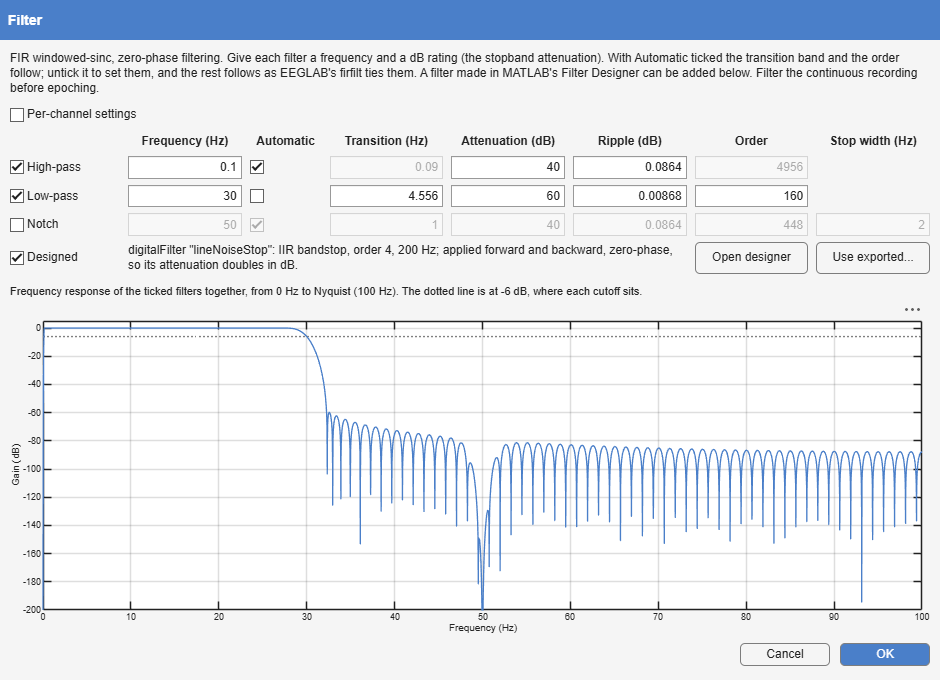
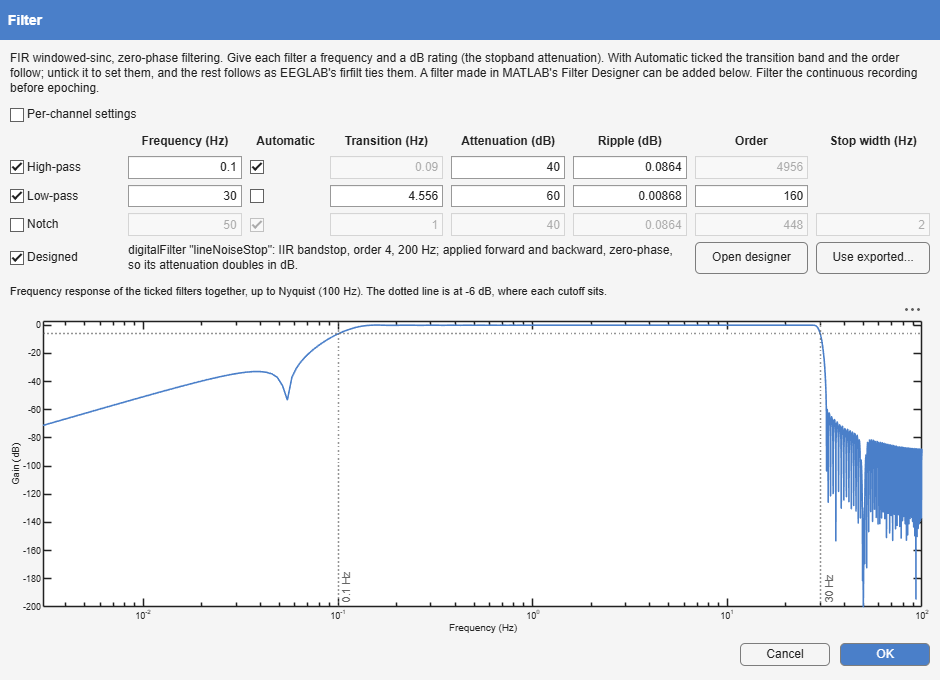
Add DialogFields.FrequencyResponse
The Butterworth plugin's response plot, shared: log frequency axis,
half-amplitude line, cutoffs marked. The Filter dialog draws with it.

diff --git a/src/Dialogs/+DialogFields/FrequencyResponse.m b/src/Dialogs/+DialogFields/FrequencyResponse.m
@@ -1,0 +1,103 @@
+classdef FrequencyResponse < DialogFields.Plot
+%FREQUENCYRESPONSE  A filter's amplitude response, redrawn from the dialog's
+%   current values: the gain in dB against a logarithmic frequency axis,
+%   the level at which a cutoff is defined dotted across, and each cutoff
+%   marked and labelled in Hz. It contributes nothing to the options.
+%
+%   DialogFields.FrequencyResponse(RESPONSEFCN, Name, Value)
+%     RESPONSEFCN  @(values) returning [F, GAIN, CUTOFFS], where VALUES is
+%                  a struct of every field's current value by name: the
+%                  frequencies in Hz, the linear gain at each (1 passes a
+%                  frequency unchanged, 0.5 halves it), and the cutoffs to
+%                  mark, in Hz ([] for none, 0 for a filter that is off).
+%                  An error it throws is shown in the plot instead, as Plot
+%                  shows any drawing's.
+%     'Floor'      the bottom of the gain axis, in dB (default -60)
+%     'Level'      the linear gain at which the cutoffs are defined, dotted
+%                  across (default 0.5, half amplitude, about -6 dB)
+%     'Color'      the curve's colour
+%     'Height'     in pixels (default 170)
+%
+%   DialogFields.FrequencyResponse.draw(AX, F, GAIN, Name, Value) draws the
+%   same picture on any axes, with 'Cutoffs' and the options above. The
+%   Filter dialog, which lays out its own window, draws its response with
+%   it, so a filter looks the same whichever dialog sets it.
+%
+%   Frequencies at or below 0 Hz are left out, since a logarithmic axis
+%   has no place for them, and a gain below the floor is drawn at the
+%   floor: a stopband's exact zeros are -Inf dB and would break the curve.
+%   The axis reaches above 0 dB far enough to show any passband ripple.
+%
+%       TransformOptionsDialog(..., ...
+%           {'High-pass (Hz)'; 'Highpass'}, 0.1, ...
+%           {'Amplitude response'; 'Response'}, DialogFields.FrequencyResponse( ...
+%               @(v) myResponse(v.Highpass, srate)));
+%
+%   See also DIALOGFIELDS.PLOT, FILTERDIALOG.
+
+    methods
+        function this = FrequencyResponse(responseFcn, varargin)
+            if ~isa(responseFcn, 'function_handle')
+                throw(MException('Alakazam:DialogFields', ...
+                    'A frequency response needs a function that computes it, @(values) ...'));
+            end
+            [style, rest] = takeStyle(varargin);
+            this@DialogFields.Plot(@(ax, values) drawFrom(ax, responseFcn, values, style), rest{:});
+        end
+    end
+
+    methods (Static)
+        function draw(ax, f, gain, varargin)
+        %DRAW  The response GAIN (linear) at F (Hz) on AX, as described above.
+            p = inputParser;
+            p.addParameter('Cutoffs', []);
+            p.addParameter('Floor', -60);
+            p.addParameter('Level', 0.5);
+            p.addParameter('Color', [0.29 0.50 0.79]);
+            p.parse(varargin{:});
+            o = p.Results;
+
+            f = reshape(double(f), 1, []);
+            gain = reshape(double(gain), 1, []);
+            shown = f > 0;
+            f = f(shown);
+            gainDb = max(20 * log10(abs(gain(shown))), o.Floor);
+            grey = [0.4 0.4 0.4];
+
+            cla(ax);
+            semilogx(ax, f, gainDb, 'Color', o.Color, 'LineWidth', 1.2, 'Tag', 'FrequencyResponse');
+            hold(ax, 'on');
+            yline(ax, 20 * log10(o.Level), ':', 'Color', grey, 'Tag', 'CutoffLevel');
+            for cutoff = reshape(double(o.Cutoffs), 1, [])
+                if cutoff > 0
+                    xline(ax, cutoff, ':', sprintf('%g Hz', cutoff), 'Color', grey, ...
+                        'LabelVerticalAlignment', 'bottom', 'FontSize', 8, 'Tag', 'Cutoff');
+                end
+            end
+            hold(ax, 'off');
+            xlim(ax, f([1 end]));
+            ylim(ax, [o.Floor, max(3, ceil(max(gainDb)) + 1)]);
+            xlabel(ax, 'Frequency (Hz)');
+            ylabel(ax, 'Gain (dB)');
+        end
+    end
+end
+
+function drawFrom(ax, responseFcn, values, style)
+%DRAWFROM  Ask RESPONSEFCN for the response at the dialog's VALUES and draw it.
+    [f, gain, cutoffs] = responseFcn(values);
+    DialogFields.FrequencyResponse.draw(ax, f, gain, 'Cutoffs', cutoffs, style{:});
+end
+
+function [style, rest] = takeStyle(args)
+%TAKESTYLE  Split the drawing's own options from those Plot takes.
+    style = {};
+    rest = {};
+    for k = 1:2:numel(args)
+        if any(strcmpi(args{k}, {'Floor', 'Level', 'Color'}))
+            style(end + (1:2)) = args(k:k + 1);
+        else
+            rest(end + (1:2)) = args(k:k + 1);
+        end
+    end
+end

diff --git a/tests/FilterTest.m b/tests/FilterTest.m
@@ -35,6 +35,8 @@ classdef FilterTest < matlab.unittest.TestCase
                 fullfile(root, 'src', 'Transformations', 'Filter')));
             testCase.applyFixture(matlab.unittest.fixtures.PathFixture( ...
                 fullfile(root, 'src', 'Transformations')));
+            testCase.applyFixture(matlab.unittest.fixtures.PathFixture( ...
+                fullfile(root, 'src', 'Dialogs')));
         end
 
         function ensureEeglab(testCase)
@@ -591,7 +593,8 @@ classdef FilterTest < matlab.unittest.TestCase
         function theDialogPlotsTheResponseAndFollowsTheSettings(testCase)
         %THEDIALOGPLOTSTHERESPONSEANDFOLLOWSTHESETTINGS  The dialog is modal,
         %   so a timer finds it, reads its one plot (the frequency response
-        %   from 0 Hz to Nyquist), unticks the high-pass, reads it again,
+        %   on a logarithmic axis up to Nyquist, as DialogFields.FrequencyResponse
+        %   draws it, each cutoff marked), unticks the high-pass, reads it again,
         %   unticks the low-pass too, and presses Cancel. The timer repeats
         %   until the dialog is up, so the test does not depend on how long
         %   that takes.
@@ -609,8 +612,9 @@ classdef FilterTest < matlab.unittest.TestCase
             bothFrequencies = filterFrequencyResponse(stored, srate);
             lowOnlyFrequencies = filterFrequencyResponse(filterOptions([], [30 40], []), srate);
 
-            seen = struct('impulseAxes', [], 'span', [], 'bothFrequencies', [], ...
-                'lowOnlyFrequencies', [], 'frequencyCaption', '', 'noneCaption', '', 'noneCurves', []);
+            seen = struct('impulseAxes', [], 'span', [], 'bothFrequencies', [], 'scale', '', ...
+                'cutoffs', [], 'lowOnlyFrequencies', [], 'frequencyCaption', '', 'noneCaption', '', ...
+                'noneCurves', []);
             timerObj = timer('ExecutionMode', 'fixedSpacing', 'Period', 1, ...
                 'TasksToExecute', 60, 'TimerFcn', @(src, ~) drive(src));
             cleanup = onCleanup(@() cleanupTimer(timerObj));
@@ -619,12 +623,14 @@ classdef FilterTest < matlab.unittest.TestCase
             clear cleanup;
 
             testCase.verifyEmpty(seen.impulseAxes, 'Only the frequency response is plotted.');
-            testCase.verifyEqual(seen.span, [0, srate / 2], 'AbsTol', 1e-12, ...
-                'The frequency response runs from 0 Hz to Nyquist.');
-            testCase.verifyEqual(seen.bothFrequencies, numel(bothFrequencies), ...
-                'The frequency response is that of both filters together.');
+            testCase.verifyEqual(seen.span, [bothFrequencies(2), srate / 2], 'AbsTol', 1e-12, ...
+                'The frequency response runs from the first frequency above 0 Hz to Nyquist.');
+            testCase.verifyEqual(seen.scale, 'log', 'The frequency axis is logarithmic.');
+            testCase.verifyEqual(sort(seen.cutoffs), [1 30], 'Each ticked cutoff is marked.');
+            testCase.verifyEqual(seen.bothFrequencies, numel(bothFrequencies) - 1, ...
+                'The frequency response is that of both filters together, without 0 Hz.');
             testCase.verifySubstring(seen.frequencyCaption, sprintf('Nyquist (%g Hz)', srate / 2));
-            testCase.verifyEqual(seen.lowOnlyFrequencies, numel(lowOnlyFrequencies), ...
+            testCase.verifyEqual(seen.lowOnlyFrequencies, numel(lowOnlyFrequencies) - 1, ...
                 'Unticking the high-pass redraws the frequency response.');
             testCase.verifySubstring(seen.noneCaption, 'No filter is ticked');
             testCase.verifyEmpty(seen.noneCurves, 'With no filter ticked there is nothing to plot.');
@@ -645,6 +651,8 @@ classdef FilterTest < matlab.unittest.TestCase
                 seen.impulseAxes = findall(f(1), 'Tag', 'ResponseAxes');
                 seen.span = curve.XData([1 end]);
                 seen.bothFrequencies = numel(curve.XData);
+                seen.scale = frequencyAxes.XScale;
+                seen.cutoffs = [findobj(frequencyAxes, 'Tag', 'Cutoff').Value];
                 seen.frequencyCaption = findall(f(1), 'Tag', 'FrequencyCaption').Text;
                 highPass = findall(f(1), 'Type', 'uicheckbox', 'Text', 'High-pass');
                 highPass.Value = false;

diff --git a/src/Transformations/Filter/FilterDialog.m b/src/Transformations/Filter/FilterDialog.m
@@ -42,11 +42,13 @@ function options = FilterDialog(srate, labels, stored)
 %
 %   In global mode, a plot under the three filters shows the frequency
 %   response of the enabled ones together (filterFrequencyResponse, from the
-%   same kernels Filter applies): the gain in dB from 0 Hz to Nyquist, with a
-%   dotted line at -6 dB, the level at which each cutoff is defined. It shows
-%   which frequencies pass, where they are cut off, and how far the rest is
-%   attenuated, and is redrawn whenever a filter is ticked or a frequency or
-%   dB changes. A setting Filter would refuse is shown there instead, with
+%   same kernels Filter applies): the gain in dB against a logarithmic
+%   frequency axis up to Nyquist, with a dotted line at -6 dB, the level at
+%   which each cutoff is defined, and each cutoff marked. It is drawn by
+%   DialogFields.FrequencyResponse, as a plugin's filter dialog draws its
+%   own. It shows which frequencies pass, where they are cut off, and how far
+%   the rest is attenuated, and is redrawn whenever a filter is ticked or a
+%   frequency or dB changes. A setting Filter would refuse is shown there instead, with
 %   the reason. Per-channel mode has no such plot, since every channel may
 %   have its own filters.
 %
@@ -366,9 +368,11 @@ function options = FilterDialog(srate, labels, stored)
             % to at most -200 dB.
             floorDb = min(floorDb, max(-200, -10 * ceil((20 - 20 * log10(max(min(gain), 1e-10))) / 10)));
         end
-        plotFrequencyResponse(frequencyAxes, frequencies, gain, floorDb, accentColor);
+        DialogFields.FrequencyResponse.draw(frequencyAxes, frequencies, gain, ...
+            'Cutoffs', cutoffsOf(settings), 'Floor', floorDb, 'Level', 10 ^ (cutoffLevelDb() / 20), ...
+            'Color', accentColor);
         frequencyCaption.Text = sprintf(['Frequency response of the ticked filters together, ' ...
-            'from 0 Hz to Nyquist (%g Hz). The dotted line is at %.0f dB, where each cutoff sits.'], ...
+            'up to Nyquist (%g Hz). The dotted line is at %.0f dB, where each cutoff sits.'], ...
             nyq, cutoffLevelDb());
     end
 
@@ -528,24 +532,16 @@ function data = seedTable(labels, seed, stored)
     end
 end
 
-function plotFrequencyResponse(ax, f, gain, floorDb, color)
-%PLOTFREQUENCYRESPONSE  Draw a linear GAIN against F (Hz) on AX as dB.
-%   The frequency axis runs from F(1), 0 Hz, to F(end), the Nyquist
-%   frequency. The gain axis runs from FLOORDB to a little above 0 dB, and
-%   the gain is clamped to FLOORDB, since a stopband's exact zeros are -Inf
-%   dB and would leave gaps in the curve. A dotted line marks the cutoff
-%   level (cutoffLevelDb) under the curve, where it can be read off.
-    HEADROOM_DB = 5;   % room above 0 dB for passband ripple
-    gainDb = max(20 * log10(gain), floorDb);
-
-    plot(ax, [f(1), f(end)], [1, 1] * cutoffLevelDb(), ':', ...
-        'Color', [0.5 0.5 0.5], 'LineWidth', 1, 'Tag', 'CutoffLevel');
-    hold(ax, 'on');
-    plot(ax, f, gainDb, 'Color', color, 'LineWidth', 1, 'Tag', 'FrequencyResponse');
-    hold(ax, 'off');
-    xlim(ax, [f(1), f(end)]);
-    ylim(ax, [floorDb, HEADROOM_DB]);
-    grid(ax, 'on');
+function cutoffs = cutoffsOf(settings)
+%CUTOFFSOF  The frequencies of the ticked filters among the three, in Hz,
+%   for the plot to mark: each cutoff, and the notch's centre.
+    cutoffs = [];
+    for key = {'highpass', 'lowpass', 'notch'}
+        s = settings.(key{1});
+        if s.enabled
+            cutoffs(end + 1) = s.freq; %#ok<AGROW>
+        end
+    end
 end
 
 function floorDb = gainFloorDb(settings)

diff --git a/tests/DialogFieldsTest.m b/tests/DialogFieldsTest.m
@@ -194,6 +194,46 @@ classdef DialogFieldsTest < matlab.unittest.TestCase
             end
         end
 
+        function aFrequencyResponseIsDrawnOnALogAxisWithItsCutoffs(testCase)
+        %AFREQUENCYRESPONSEISDRAWNONALOGAXISWITHITSCUTOFFS  From the values:
+        %   0 Hz left out, a zero gain drawn at the floor, the half-amplitude
+        %   level dotted, and each cutoff that is on marked in Hz.
+            field = DialogFields.FrequencyResponse(@(v) response(v), 'Floor', -80);
+            testCase.verifyFalse(field.hasValue(), 'A preview adds nothing to the options.');
+            testCase.build(field);
+
+            field.refresh(struct('Highpass', 1, 'Lowpass', 0));
+            ax = field.Axes;
+            curve = findobj(ax, 'Tag', 'FrequencyResponse');
+            testCase.assertNumElements(curve, 1);
+            testCase.verifyEqual(ax.XScale, 'log');
+            testCase.verifyEqual(curve.XData, [0.5 1 2 100]);
+            testCase.verifyEqual(curve.YData, [-80, 20 * log10(0.5), 0, 0], 'AbsTol', 1e-12, ...
+                'A zero gain is drawn at the floor, not left out.');
+            testCase.verifyEqual(findobj(ax, 'Tag', 'CutoffLevel').Value, 20 * log10(0.5), 'AbsTol', 1e-12);
+            cutoff = findobj(ax, 'Tag', 'Cutoff');
+            testCase.verifyEqual(cutoff.Value, 1, 'Only the cutoff that is on is marked.');
+            testCase.verifyEqual(char(cutoff.Label), '1 Hz');
+            testCase.verifyEqual(ax.XLim, [0.5 100]);
+            testCase.verifyEqual(ax.YLim, [-80 3]);
+
+            broken = DialogFields.FrequencyResponse(@(v) refused(v));
+            testCase.build(broken);
+            broken.refresh(struct());
+            testCase.verifySubstring(broken.Axes.Title.String, 'must lie above');
+            testCase.verifyError(@() DialogFields.FrequencyResponse(3), 'Alakazam:DialogFields');
+
+            function [f, gain, cutoffs] = response(v)
+                f = [0 0.5 1 2 100];
+                gain = [0 0 0.5 1 1];
+                cutoffs = [v.Highpass, v.Lowpass];
+            end
+
+            function [f, gain, cutoffs] = refused(~) %#ok<STOUT>
+                error('DialogFieldsTest:bandstop', 'The low-pass must lie above the high-pass.');
+            end
+        end
+
         % ---- the dialog ---------------------------------------------------
         function theDialogReturnsEveryValueButThePreview(testCase)
             testCase.requireFigures();
